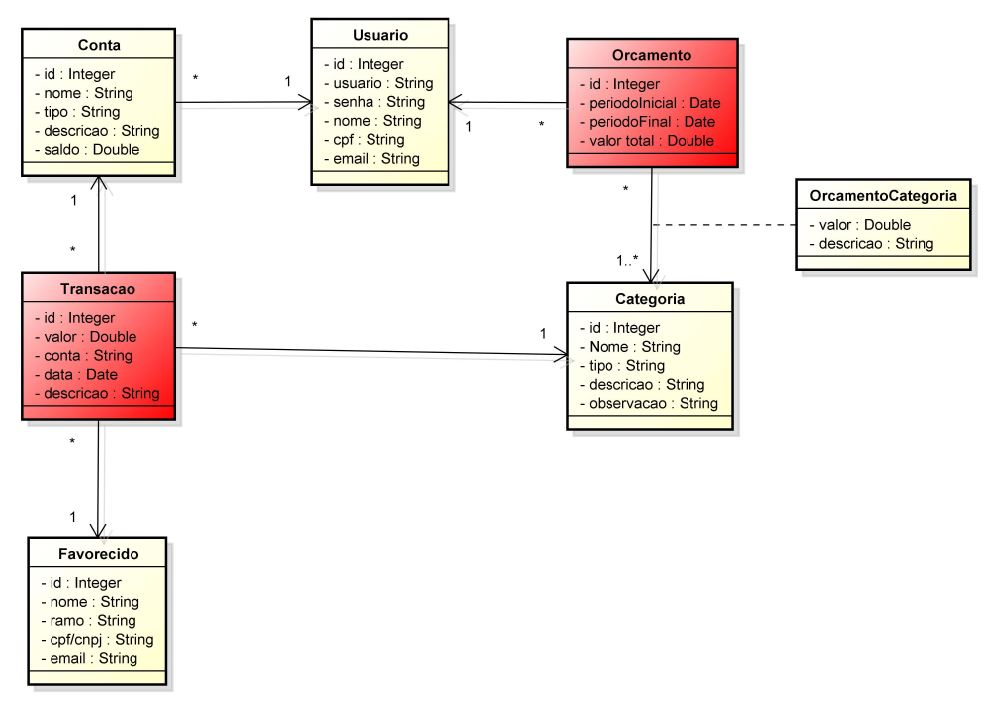
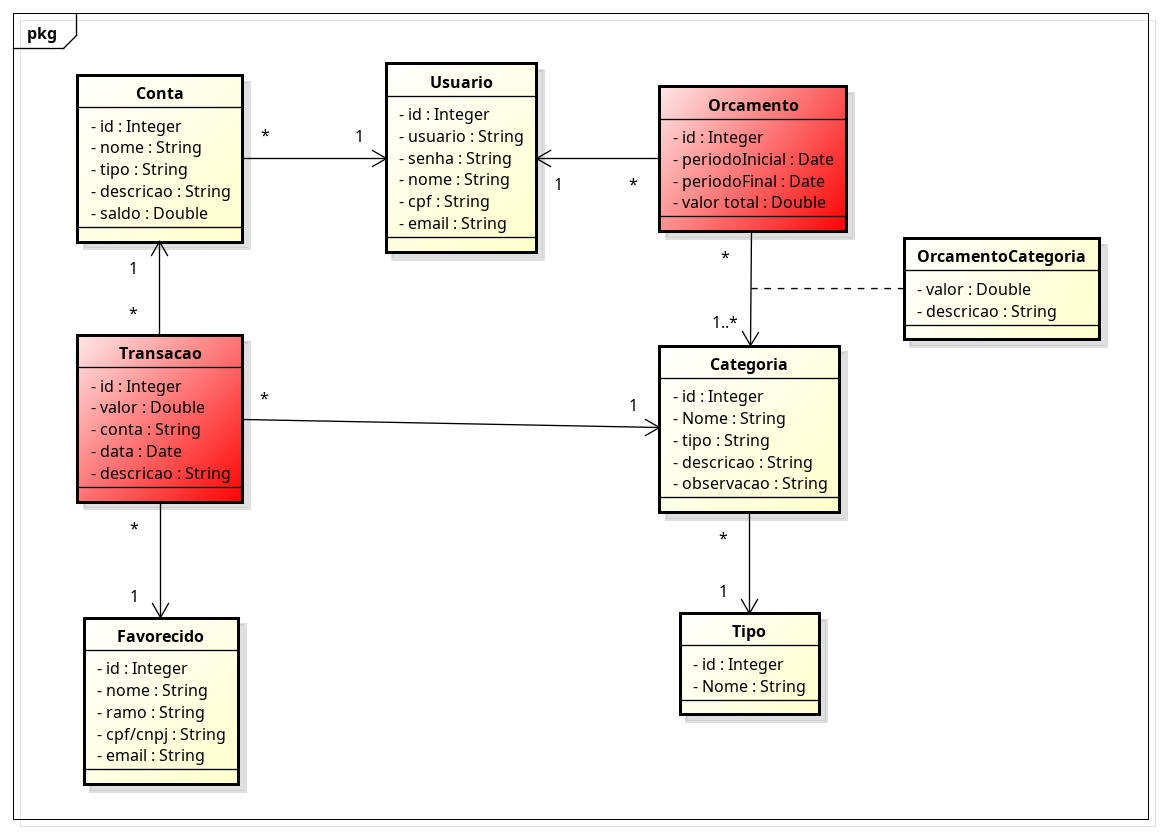
Criação das rotas e Controllers

Changed region(s): [[0.0, 0.0, 0.999, 0.6553], [0.0, 0.6865, 0.2185, 0.9986], [0.5619, 0.7177, 0.718, 0.8738]]

diff --git a/src/routes.js b/src/routes.js
@@ -1,0 +1,43 @@
+import express from "express";
+
+import {FavorecidoController} from './controllers/FavorecidoController.js';
+import {CategoriaController} from './controllers/CategoriaController.js';
+import {ContaController} from './controllers/ContaController.js';
+import { TipoController } from "./controllers/TipoController.js";
+import { UsuarioController} from "./controllers/UsuarioController.js"
+
+const routes = express.Router();
+
+//Categoria
+routes.get('/categorias', CategoriaController.findAll);
+routes.get('/categorias/:id', CategoriaController.findByPk);
+routes.post('/categorias', CategoriaController.create);
+routes.put('/categorias/:id', CategoriaController.update);
+routes.delete('/categorias/:id', CategoriaController.delete);
+
+//Conta
+routes.get('/contas', ContaController.findAll);
+routes.get('/contas/:id', ContaController.findByPk);
+routes.post('/contas', ContaController.create);
+routes.put('/contas/:id', ContaController.update);
+routes.delete('/contas:id', ContaController.delete);
+
+//Favorecido
+routes.get('/favorecidos', FavorecidoController.findAll);
+routes.get('/favorecidos/:id', FavorecidoController.findByPk);
+routes.post('/favorecidos', FavorecidoController.create);
+routes.put('/favorecidos/:id', FavorecidoController.update);
+routes.delete('/favortecidos/:id', FavorecidoController.delete);
+
+//Tipo
+routes.get('/tipos', TipoController.findAll);
+
+//Usuário
+routes.get('/usuarios/:id', FavorecidoController.findByPk);
+routes.post('/usuarios', FavorecidoController.create);
+routes.put('/usuarios/:id', FavorecidoController.update);
+routes.delete('/usuarios:id', FavorecidoController.delete);
+
+
+
+export default routes;

diff --git a/src/services/FavorecidoService.js b/src/services/FavorecidoService.js
@@ -1,0 +1,45 @@
+import {Favorecido} from "../models/Favorecido.js";
+
+class FavorecidoService{
+    
+    static async findAll(){
+        const objs = await Favorecido.findAll({include: {all: true, nested: true}});
+        return objs;
+    }
+
+    static async findByPk(req){
+        const {id} = req.params;
+        const obj = await Favorecido.findByPk(id, {include:{all: true, nested:true}});
+        return obj;
+    }
+
+    static async create(req){
+        const { nome, ramo, cpfOuCnpj, email } = req.body;
+        const obj = await Favorecido.create({ nome, ramo, cpfOuCnpj, email });
+        return await Favorecido.findByPk(obj.id, {include: {all: true, nested: true}});
+    }
+
+    static async update(req){
+        const {id} = req.params;
+        const { nome, ramo, cpfOuCnpj, email } = req.body;
+        const obj =  await Favorecido.findByPk(id, {include: {all: true, nested: true}});
+        if (obj == null) throw 'Favorecido Não encontrado';
+        Object.assign(obj, { nome, ramo, cpfOuCnpj, email });
+        return await obj.save;
+    }
+
+    static async delete(req){
+        const {id} = req.params;
+        const obj = await Favorecido.findByPk(id);
+        if(obj == null) throw 'Favorecido Não Encontrado';
+        try{
+            await obj.destroy();
+            return obj;
+        }catch(error){
+            throw "Não é Possivel remover um favorecido que tenha participação em transações."
+        }
+    }
+
+}
+
+export {FavorecidoService};

diff --git a/src/_middleware/error-handler.js b/src/_middleware/error-handler.js
@@ -1,0 +1,20 @@
+function errorHandler(err, req, res, next){
+    switch(true){
+        case typeof err === 'string':
+            const is404 = err.toLowerCase().endsWith('not found');
+            const statusCode = is404? 404 : 400;
+            return res.status(statusCode).json({message: err});
+        default:
+            if(err.name == "SequelizeValidationError"){
+                return res.status(400).json({message: err.errors.map(field => field.message).join(" ")});
+            } else if (err.name == "SequelizeForeignKeyConstraintError") {
+                return res.status(400).json({ message: "Não foi possivel encontrar o registro associado a esta inserção/alteração." });
+            } else if (err.name == "SequelizeUniqueConstraintError") {
+                return res.status(400).json({ message: "Já existe um iten cadastrado com o ID informado." });
+            } else {
+                return res.status(500).json({ message: err.message });
+            }
+    }
+}
+
+export default errorHandler;

diff --git a/src/controllers/FavorecidoController.js b/src/controllers/FavorecidoController.js
@@ -1,0 +1,40 @@
+import {FavovecidoService} from "../services/FavorecidoService.js";
+
+class FavorecidoController{
+
+    static async findAll(req, res, next){
+        FavovecidoService.findAll()
+            .then(objs => res.json(objs))
+            .catch(next);
+        
+    }
+
+    static async findByPk(req, res){
+        FavovecidoService.findByPk(req)
+            .then(obj => res.json(obj))
+            .catch(next);
+    }
+
+    static async create (req, res){
+        FavovecidoService.create(req)
+            .then(obj => res.json(obj))
+            .catch(next);
+    }
+
+    static async update(req, res){
+        FavovecidoService.update(req)
+            .then(obj => res.json(obj))
+            .catch(next);
+    }
+
+    static async delete(req, res, next){
+        FavovecidoService.delete(req)
+            .then(obj => res.json(obj))
+            .catch(next);
+
+    }
+
+
+}
+
+export {FavorecidoController};

diff --git a/src/controllers/CategoriaController.js b/src/controllers/CategoriaController.js
@@ -1,0 +1,40 @@
+import {CategoriaService} from "../services/CategoriaService.js";
+
+class CategoriaController{
+
+    static async findAll(req, res, next){
+        CategoriaService.findAll()
+            .then(objs => res.json(objs))
+            .catch(next);
+        
+    }
+
+    static async findByPk(req, res){
+        CategoriaService.findByPk(req)
+            .then(obj => res.json(obj))
+            .catch(next);
+    }
+
+    static async create (req, res){
+        CategoriaService.create(req)
+            .then(obj => res.json(obj))
+            .catch(next);
+    }
+
+    static async update(req, res){
+        CategoriaService.update(req)
+            .then(obj => res.json(obj))
+            .catch(next);
+    }
+
+    static async delete(req, res, next){
+        CategoriaService.delete(req)
+            .then(obj => res.json(obj))
+            .catch(next);
+
+    }
+
+
+}
+
+export {CategoriaController};

diff --git a/src/controllers/ContaController.js b/src/controllers/ContaController.js
@@ -1,0 +1,40 @@
+import {ContaService} from "../services/ContaService.js";
+
+class ContaController{
+
+    static async findAll(req, res, next){
+        ContaService.findAll()
+            .then(objs => res.json(objs))
+            .catch(next);
+        
+    }
+
+    static async findByPk(req, res){
+        ContaService.findByPk(req)
+            .then(obj => res.json(obj))
+            .catch(next);
+    }
+
+    static async create (req, res){
+        ContaService.create(req)
+            .then(obj => res.json(obj))
+            .catch(next);
+    }
+
+    static async update(req, res){
+        ContaService.update(req)
+            .then(obj => res.json(obj))
+            .catch(next);
+    }
+
+    static async delete(req, res, next){
+        ContaService.delete(req)
+            .then(obj => res.json(obj))
+            .catch(next);
+
+    }
+
+
+}
+
+export {ContaController};

diff --git a/src/controllers/UsuarioController.js b/src/controllers/UsuarioController.js
@@ -1,0 +1,33 @@
+import {UsuárioService} from "../services/UsuarioService.js";
+
+class UsuarioController{
+
+    static async findByPk(req, res){
+        UsuárioService.findByPk(req)
+            .then(obj => res.json(obj))
+            .catch(next);
+    }
+
+    static async create (req, res){
+        UsuárioService.create(req)
+            .then(obj => res.json(obj))
+            .catch(next);
+    }
+
+    static async update(req, res){
+        UsuárioService.update(req)
+            .then(obj => res.json(obj))
+            .catch(next);
+    }
+
+    static async delete(req, res, next){
+        UsuárioService.delete(req)
+            .then(obj => res.json(obj))
+            .catch(next);
+
+    }
+
+
+}
+
+export {UsuarioController};

diff --git a/src/services/CategoriaService.js b/src/services/CategoriaService.js
@@ -1,0 +1,18 @@
+import {Categoria} from "../models/Categoria.js"
+
+class CategoriaService{
+    static async findAll(){
+        const objs = await Categoria.findAll({include: {all: true, nested: true}});
+        return objs;
+    }
+
+    static async findByPk(req){
+        const {id} = req.params;
+        const obj = await Categoria.findByPk(id, {include: {all: true, nested: true}});
+        return obj;
+    }
+
+    static async create(req){
+        const {nome, tipo, descricao, observacao} = req.body;
+    }
+}

diff --git a/src/models/Conta.js b/src/models/Conta.js
@@ -34,7 +34,7 @@ class Conta extends Model {
     }
 
     static associate(models) {
-        this.belongsTo(models.usuario, { as: 'usuario', foreignKey: { name: 'usuarioId', allowNull: false, validate: { notNull: { msg: 'A Conta do Usuário deve ser preenchido!' } } } });
+        this.belongsTo(models.usuario, { as: 'usuario', foreignKey: { name: 'usuarioId', allowNull: false, validate: { notNull: { msg: 'O Usuário deve ser preenchido!' } } } });
     }
 }
 

diff --git a/src/models/Tipo.js b/src/models/Tipo.js
@@ -1,0 +1,19 @@
+import { Model, DataType, DataTypes } from "sequelize";
+
+class Tipo extends Model{
+    static init (sequelize){
+        super.init({
+            nome:{
+                type: DataTypes.STRING,
+                validate:{
+                    notEmpty, notNull
+                }
+            }
+        })
+    }
+    static associate(models) {
+
+    }
+}
+
+export {Tipo}

diff --git a/src/controllers/TipoController.js b/src/controllers/TipoController.js
@@ -1,0 +1,12 @@
+import {TipoService} from "../services/TipoService.js"
+
+class TipoController{
+
+    static async findAll(req, res, next){
+        TipoService.findAll()
+            .then(objs => res.json(objs))
+            .catch(next);
+    }
+}
+
+export {TipoController};

diff --git a/src/models/Categoria.js b/src/models/Categoria.js
@@ -35,7 +35,7 @@ class Categoria extends Model {
     }
 
     static associate(models) {
-
+        this.belongsTo(models.tipo, {as: 'tipo', foreignKey: {name: 'tipoId', allowNull: false, validate: {notNull: {msg: 'O Tipo da Categoria deve ser informado.'}}}});
     }
 }
 
